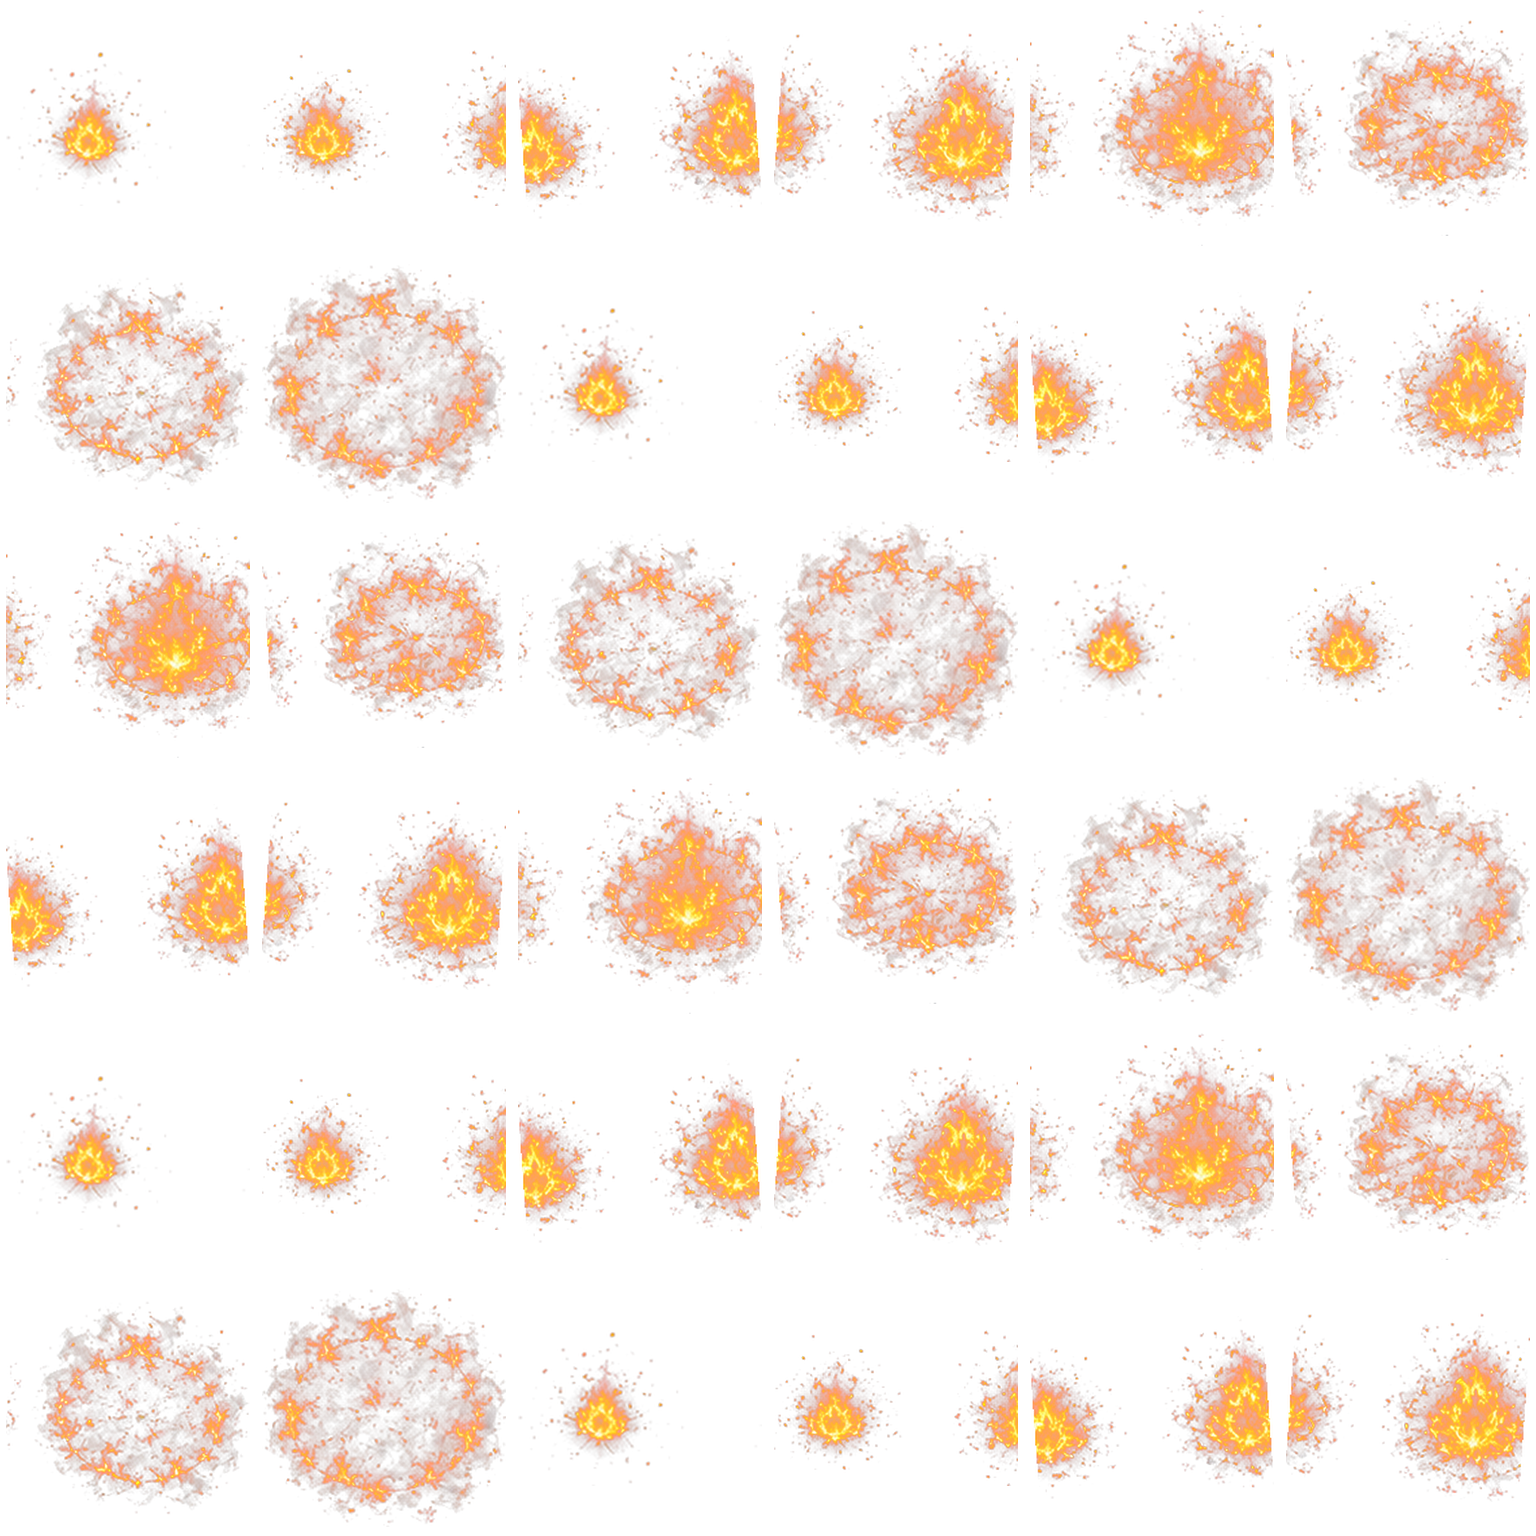
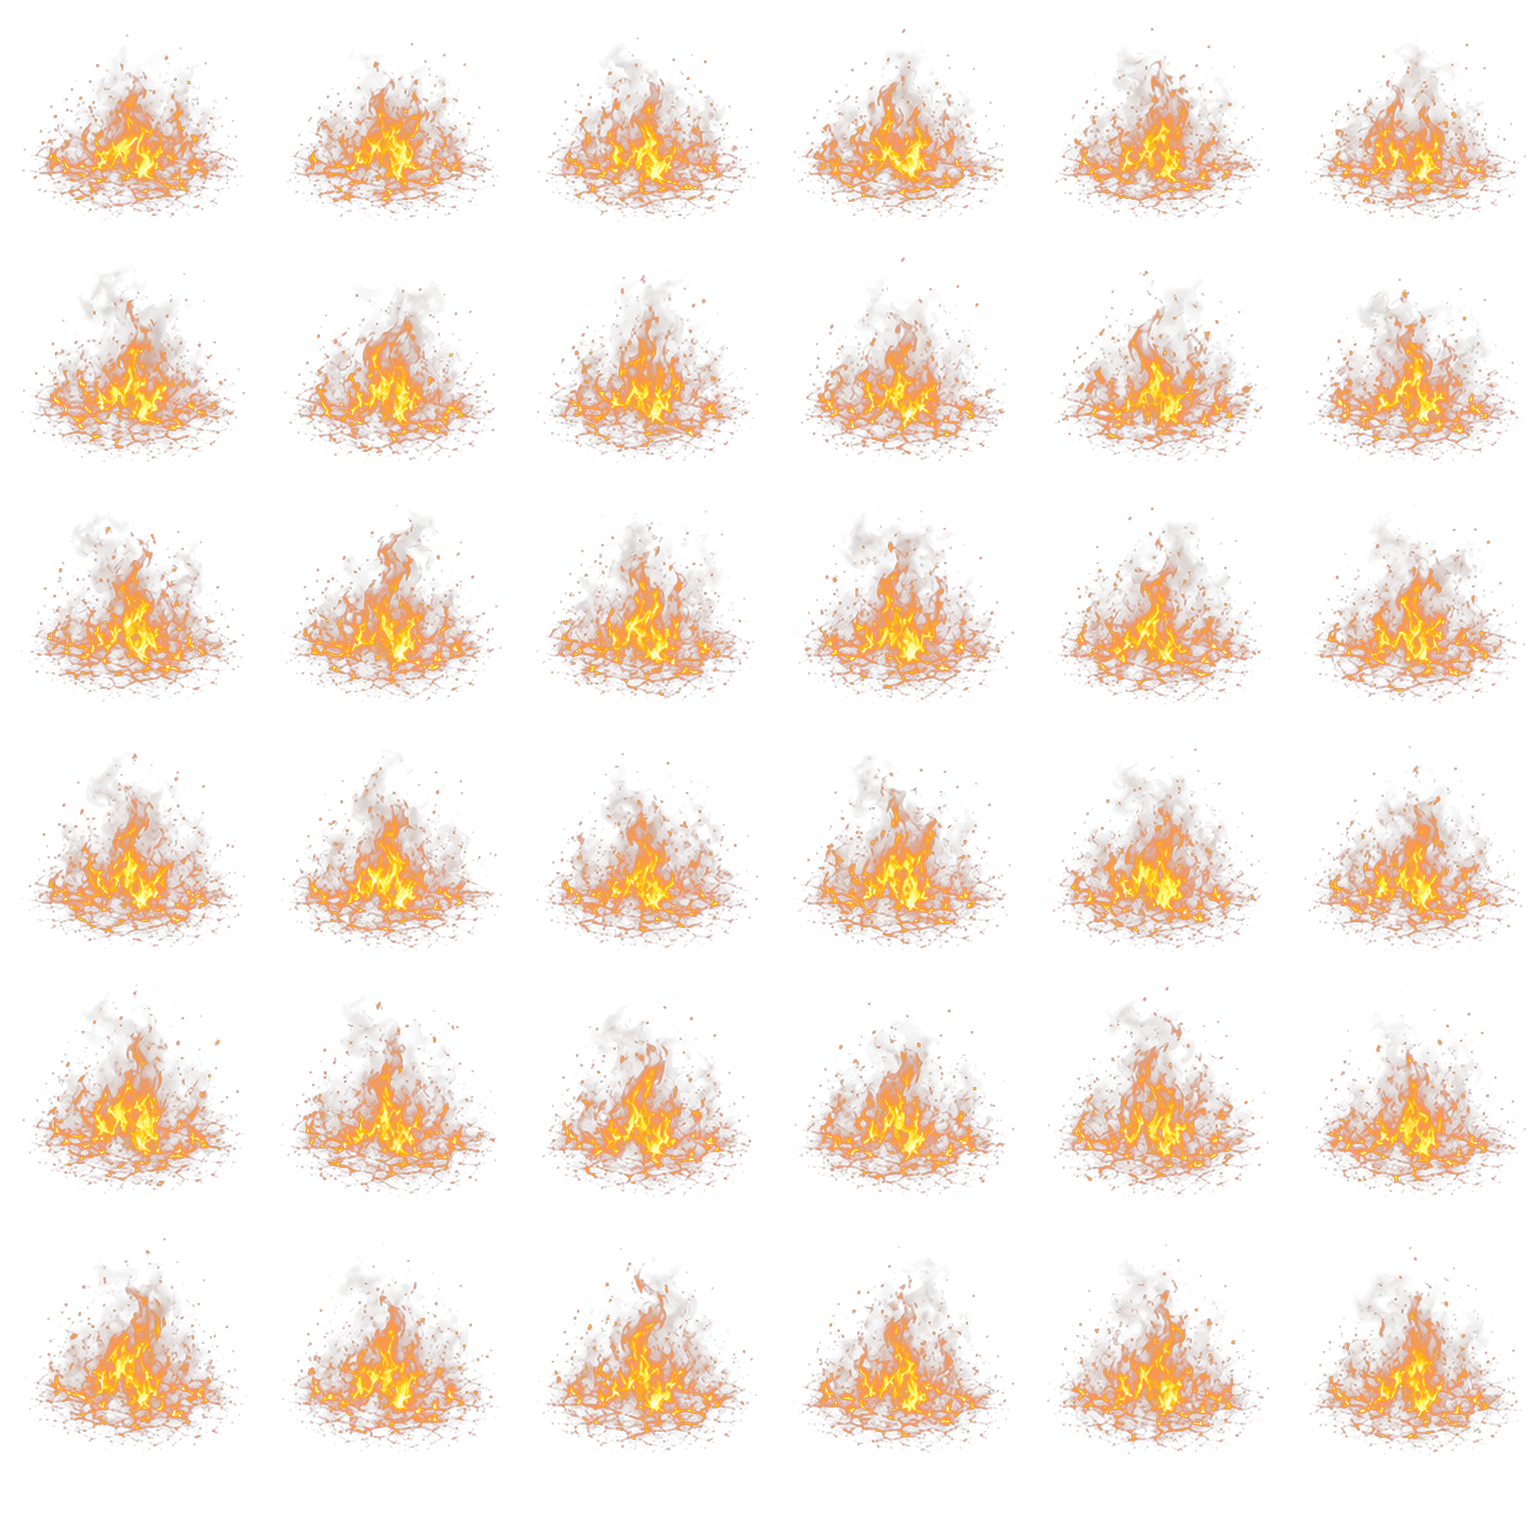
add:flutter 火焰

diff --git a/packages/grass_game_runtime/lib/src/runtime/game/grass_survivor_game.dart b/packages/grass_game_runtime/lib/src/runtime/game/grass_survivor_game.dart
@@ -2355,7 +2355,7 @@ class GrassSurvivorGame extends FlameGame {
     const rows = 6;
     final frameCount = columns * rows;
     final frame =
-        ((_elapsed * (isEvolved ? 18 : 13) + seed) * 1.7).floor() % frameCount;
+        (_elapsed * (isEvolved ? 15 : 10) + seed).floor() % frameCount;
     final frameWidth = image.width / columns;
     final frameHeight = image.height / rows;
     final source = Rect.fromLTWH(
@@ -2375,21 +2375,6 @@ class GrassSurvivorGame extends FlameGame {
       ..blendMode = BlendMode.screen
       ..color = Color.fromRGBO(255, 255, 255, opacity);
     canvas.drawImageRect(image, source, destination, paint);
-
-    final coreSide = side * 0.62;
-    final coreFrame = (frame + 7) % frameCount;
-    final coreSource = Rect.fromLTWH(
-      (coreFrame % columns) * frameWidth,
-      (coreFrame ~/ columns) * frameHeight,
-      frameWidth,
-      frameHeight,
-    );
-    canvas.drawImageRect(
-      image,
-      coreSource,
-      Rect.fromCenter(center: center, width: coreSide, height: coreSide),
-      paint..color = Color.fromRGBO(255, 255, 255, opacity * 0.82),
-    );
   }
 
   void _drawPoisonField(Canvas canvas, _GroundEffectField field) {
